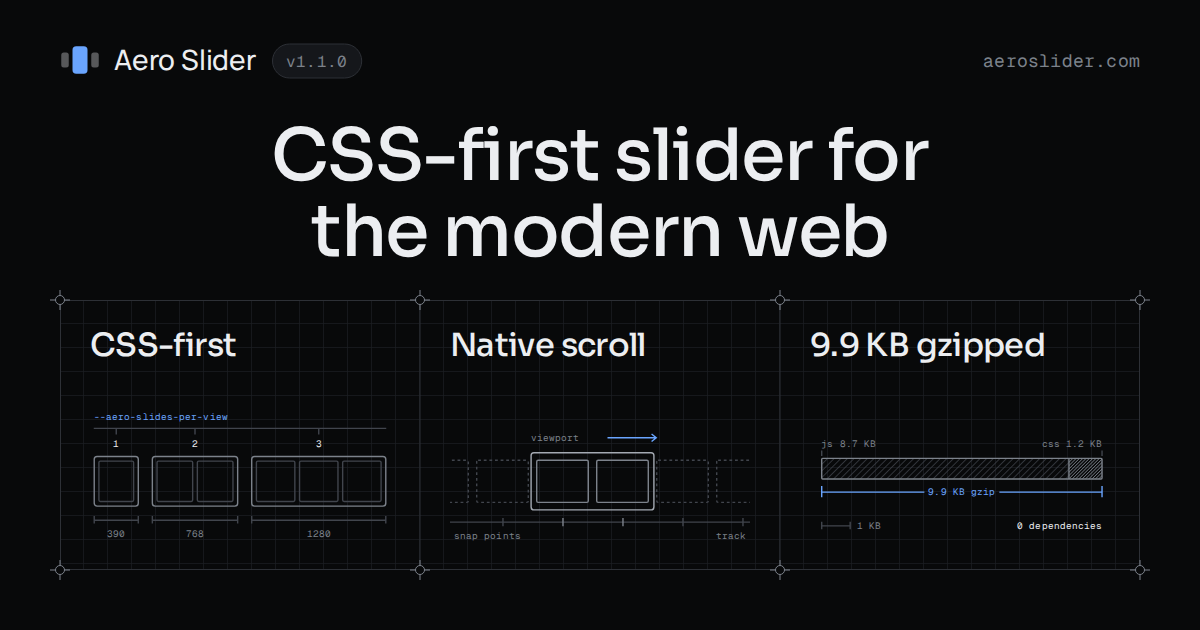
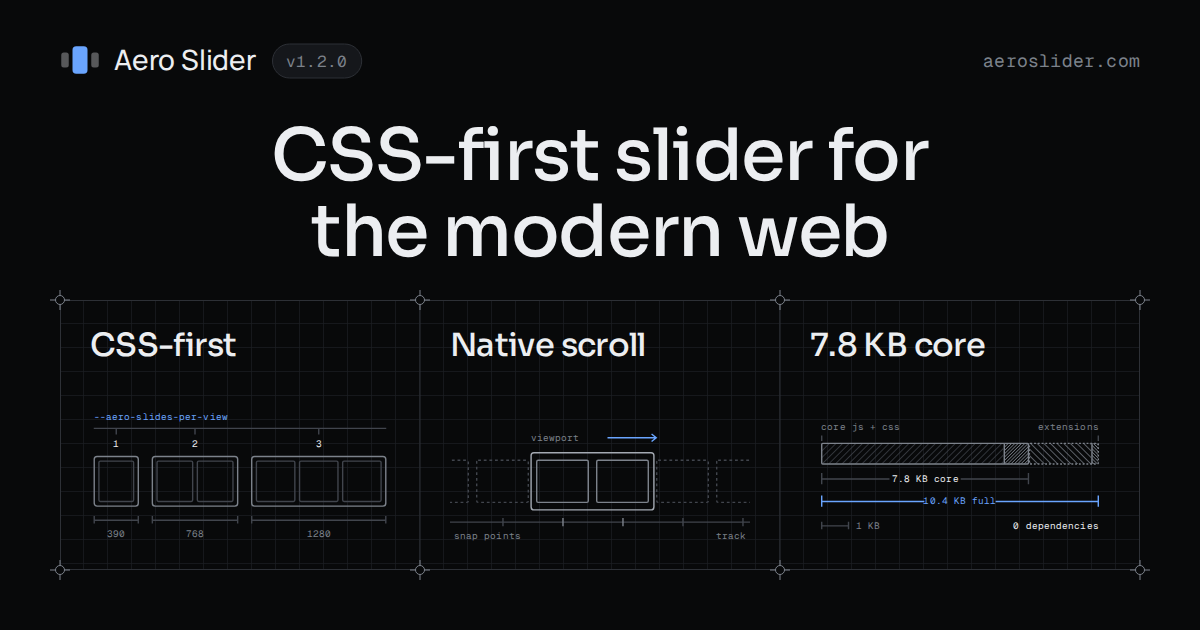
Draw the social card's size as core and full, like the site
The card measured only the full bundle and showed 1.1.0. It now draws the
Benefits size bar from the site: core JS and CSS, then the extensions, with
7.8 KB core and 10.4 KB full, and states v1.2.0. The README's figures move
up to the same build.

Changed region(s): [[0.6783, 0.6635, 0.925, 0.8444], [0.6783, 0.5127, 0.8942, 0.573]]

diff --git a/scripts/og-image.ts b/scripts/og-image.ts
@@ -17,9 +17,12 @@ const out = "site/public/og-image";
 // ── Figures the card states ─────────────────────────────────────────────
 // Level 6 is Node's default, which the site's own figures (site/src/lib/bundle-size.ts) use.
 const gzipKB = (path: string) => gzipSync(readFileSync(path, "utf8"), { level: 6 }).length / 1000;
-const js = gzipKB("dist/aero-slider.min.js");
-const css = gzipKB("dist/aero-slider.min.css");
-const total = js + css;
+const sizes = (name: string) => {
+  const size = { js: gzipKB(`dist/${name}.min.js`), css: gzipKB(`dist/${name}.min.css`) };
+  return { ...size, total: size.js + size.css };
+};
+const core = sizes("aero-slider.core");
+const full = sizes("aero-slider");
 const kb = (value: number) => value.toFixed(1);
 const version: string = JSON.parse(readFileSync("package.json", "utf8")).version;
 
@@ -89,29 +92,48 @@ function nativeScrollFigure(): string {
     <text x="316" y="138" text-anchor="end">track</text>`;
 }
 
+// As Benefits.astro draws it: the core's JavaScript and CSS, then the extensions' on the same bar.
 function sizeFigure(): string {
   const barX = 12;
-  const unit = Math.min(36, 300 / total);
-  const jsW = js * unit;
-  const cssW = css * unit;
-  const end = barX + jsW + cssW;
-  const mid = (barX + end) / 2;
+  const unit = Math.min(36, 296 / full.total);
+  const segments = [
+    { width: core.js * unit, fill: "url(#hatch)" },
+    { width: core.css * unit, fill: "url(#hatch-dense)" },
+    { width: (full.js - core.js) * unit, fill: "url(#hatch-muted)" },
+    { width: (full.css - core.css) * unit, fill: "url(#hatch-muted-dense)" },
+  ].map((segment, i, all) => ({
+    ...segment,
+    x: barX + all.slice(0, i).reduce((sum, { width }) => sum + width, 0),
+  }));
+  const coreEnd = barX + core.total * unit;
+  const barEnd = barX + full.total * unit;
+  const dimension = (from: number, to: number, y: number, gap: number) => {
+    const mid = (from + to) / 2;
+    return `M${from + 0.5} ${y - 6}V${y + 6}M${to - 0.5} ${y - 6}V${y + 6}M${from + 0.5} ${y + 0.5}H${mid - gap / 2}M${mid + gap / 2} ${y + 0.5}H${to - 0.5}`;
+  };
+  const bars = segments
+    .map((s) => `<rect x="${s.x + 0.5}" y="36.5" width="${Math.max(0, s.width - 1)}" height="22" fill="${s.fill}"/>`)
+    .join("");
   return `<defs>
       <pattern id="hatch" width="5" height="5" patternUnits="userSpaceOnUse" patternTransform="rotate(45)"><path class="strong" d="M0 0V5"/></pattern>
       <pattern id="hatch-dense" width="2.5" height="2.5" patternUnits="userSpaceOnUse" patternTransform="rotate(45)"><path class="faint" d="M0 0V2.5"/></pattern>
+      <pattern id="hatch-muted" width="5" height="5" patternUnits="userSpaceOnUse" patternTransform="rotate(-45)"><path class="faint" d="M0 0V5"/></pattern>
+      <pattern id="hatch-muted-dense" width="2.5" height="2.5" patternUnits="userSpaceOnUse" patternTransform="rotate(-45)"><path class="faint" d="M0 0V2.5"/></pattern>
     </defs>
-    <text x="${barX}" y="40">js ${kb(js)} KB</text>
-    <text x="${end}" y="40" text-anchor="end">css ${kb(css)} KB</text>
-    <path class="strong" d="M${barX + 0.5} 44V50M${end - 0.5} 44V50"/>
-    <rect x="${barX + 0.5}" y="52.5" width="${jsW}" height="22" fill="url(#hatch)"/>
-    <rect x="${barX + jsW + 0.5}" y="52.5" width="${cssW - 1}" height="22" fill="url(#hatch-dense)"/>
-    <rect class="faint" x="${barX + 0.5}" y="52.5" width="${jsW + cssW - 1}" height="22" rx="1"/>
-    <path class="faint" d="M${barX + jsW + 0.5} 52.5V74.5"/>
-    <path class="accent" d="M${barX + 0.5} 82V94M${end - 0.5} 82V94M${barX + 0.5} 88.5H${mid - 40}M${mid + 40} 88.5H${end - 0.5}"/>
-    <text x="${mid}" y="92" text-anchor="middle" class="accent-text">${kb(total)} KB gzip</text>
+    <text x="${barX}" y="22">core js + css</text>
+    <text x="${barEnd}" y="22" text-anchor="end">extensions</text>
+    <path class="strong" d="M${barX + 0.5} 28V34M${barEnd - 0.5} 28V34"/>
+    ${bars}
+    <rect class="faint" x="${barX + 0.5}" y="36.5" width="${coreEnd - barX - 1}" height="22" rx="1"/>
+    <rect class="faint dashed-fine" x="${coreEnd + 0.5}" y="36.5" width="${barEnd - coreEnd - 1}" height="22" rx="1"/>
+    <path class="faint" d="M${segments[1]!.x + 0.5} 36.5V58.5M${segments[3]!.x + 0.5} 36.5V58.5"/>
+    <path class="strong" d="${dimension(barX, coreEnd, 74, 76)}"/>
+    <text x="${(barX + coreEnd) / 2}" y="77.5" text-anchor="middle" class="value">${kb(core.total)} KB core</text>
+    <path class="accent" d="${dimension(barX, barEnd, 98, 76)}"/>
+    <text x="${(barX + barEnd) / 2}" y="101.5" text-anchor="middle" class="accent-text">${kb(full.total)} KB full</text>
     <path class="strong" d="M${barX + 0.5} 120V128M${barX + unit + 0.5} 120V128M${barX + 0.5} 124.5H${barX + unit + 0.5}"/>
     <text x="${barX + unit + 8}" y="128">1 KB</text>
-    <text x="${end}" y="128" text-anchor="end" class="value">0 dependencies</text>`;
+    <text x="${barEnd}" y="128" text-anchor="end" class="value">0 dependencies</text>`;
 }
 
 // ── Layout ──────────────────────────────────────────────────────────────
@@ -125,7 +147,7 @@ const figH = (figW / 320) * 146;
 const cells = [
   { title: "CSS-first", figure: cssFirstFigure() },
   { title: "Native scroll", figure: nativeScrollFigure() },
-  { title: `${kb(total)} KB gzipped`, figure: sizeFigure() },
+  { title: `${kb(core.total)} KB core`, figure: sizeFigure() },
 ]
   .map((cell, i) => {
     const x = sheet.x + i * cellW;
@@ -166,6 +188,7 @@ const svg = `<svg xmlns="http://www.w3.org/2000/svg" width="${W}" height="${H}" 
     .fig .muted { stroke: ${c.muted}; }
     .fig .accent { stroke: ${c.accent}; }
     .fig .dashed { stroke-dasharray: 3 3; }
+    .fig .dashed-fine { stroke-dasharray: 2 2; }
     .fig text { font: 400 10px "Geist Mono"; letter-spacing: 0.1px; fill: ${c.faint}; }
     .fig .value { fill: ${c.ink}; }
     .fig .accent-text { fill: ${c.accent}; }
@@ -226,4 +249,4 @@ const finalSvg = await page.evaluate(() => {
 writeFileSync(`${out}.svg`, finalSvg + "\n");
 await page.locator("body > svg").screenshot({ path: `${out}.png` });
 await browser.close();
-console.log(`${out}.svg and ${out}.png: ${kb(total)} KB, v${version}`);
+console.log(`${out}.svg and ${out}.png: ${kb(core.total)} KB core, ${kb(full.total)} KB full, v${version}`);

diff --git a/README.md b/README.md
@@ -1,6 +1,6 @@
 # Aero Slider
 
-A lightweight, CSS-first slider library for the modern web: about 7.7 KB for the core and 10.3 KB with every extension, JavaScript and CSS gzipped, with no dependencies.
+A lightweight, CSS-first slider library for the modern web: about 7.8 KB for the core and 10.4 KB with every extension, JavaScript and CSS gzipped, with no dependencies.
 
 - **CSS-First Architecture** — Layout via custom properties, responsive via media queries
 - **Native Scroll Snapping** — Hardware-accelerated, smooth scrolling
